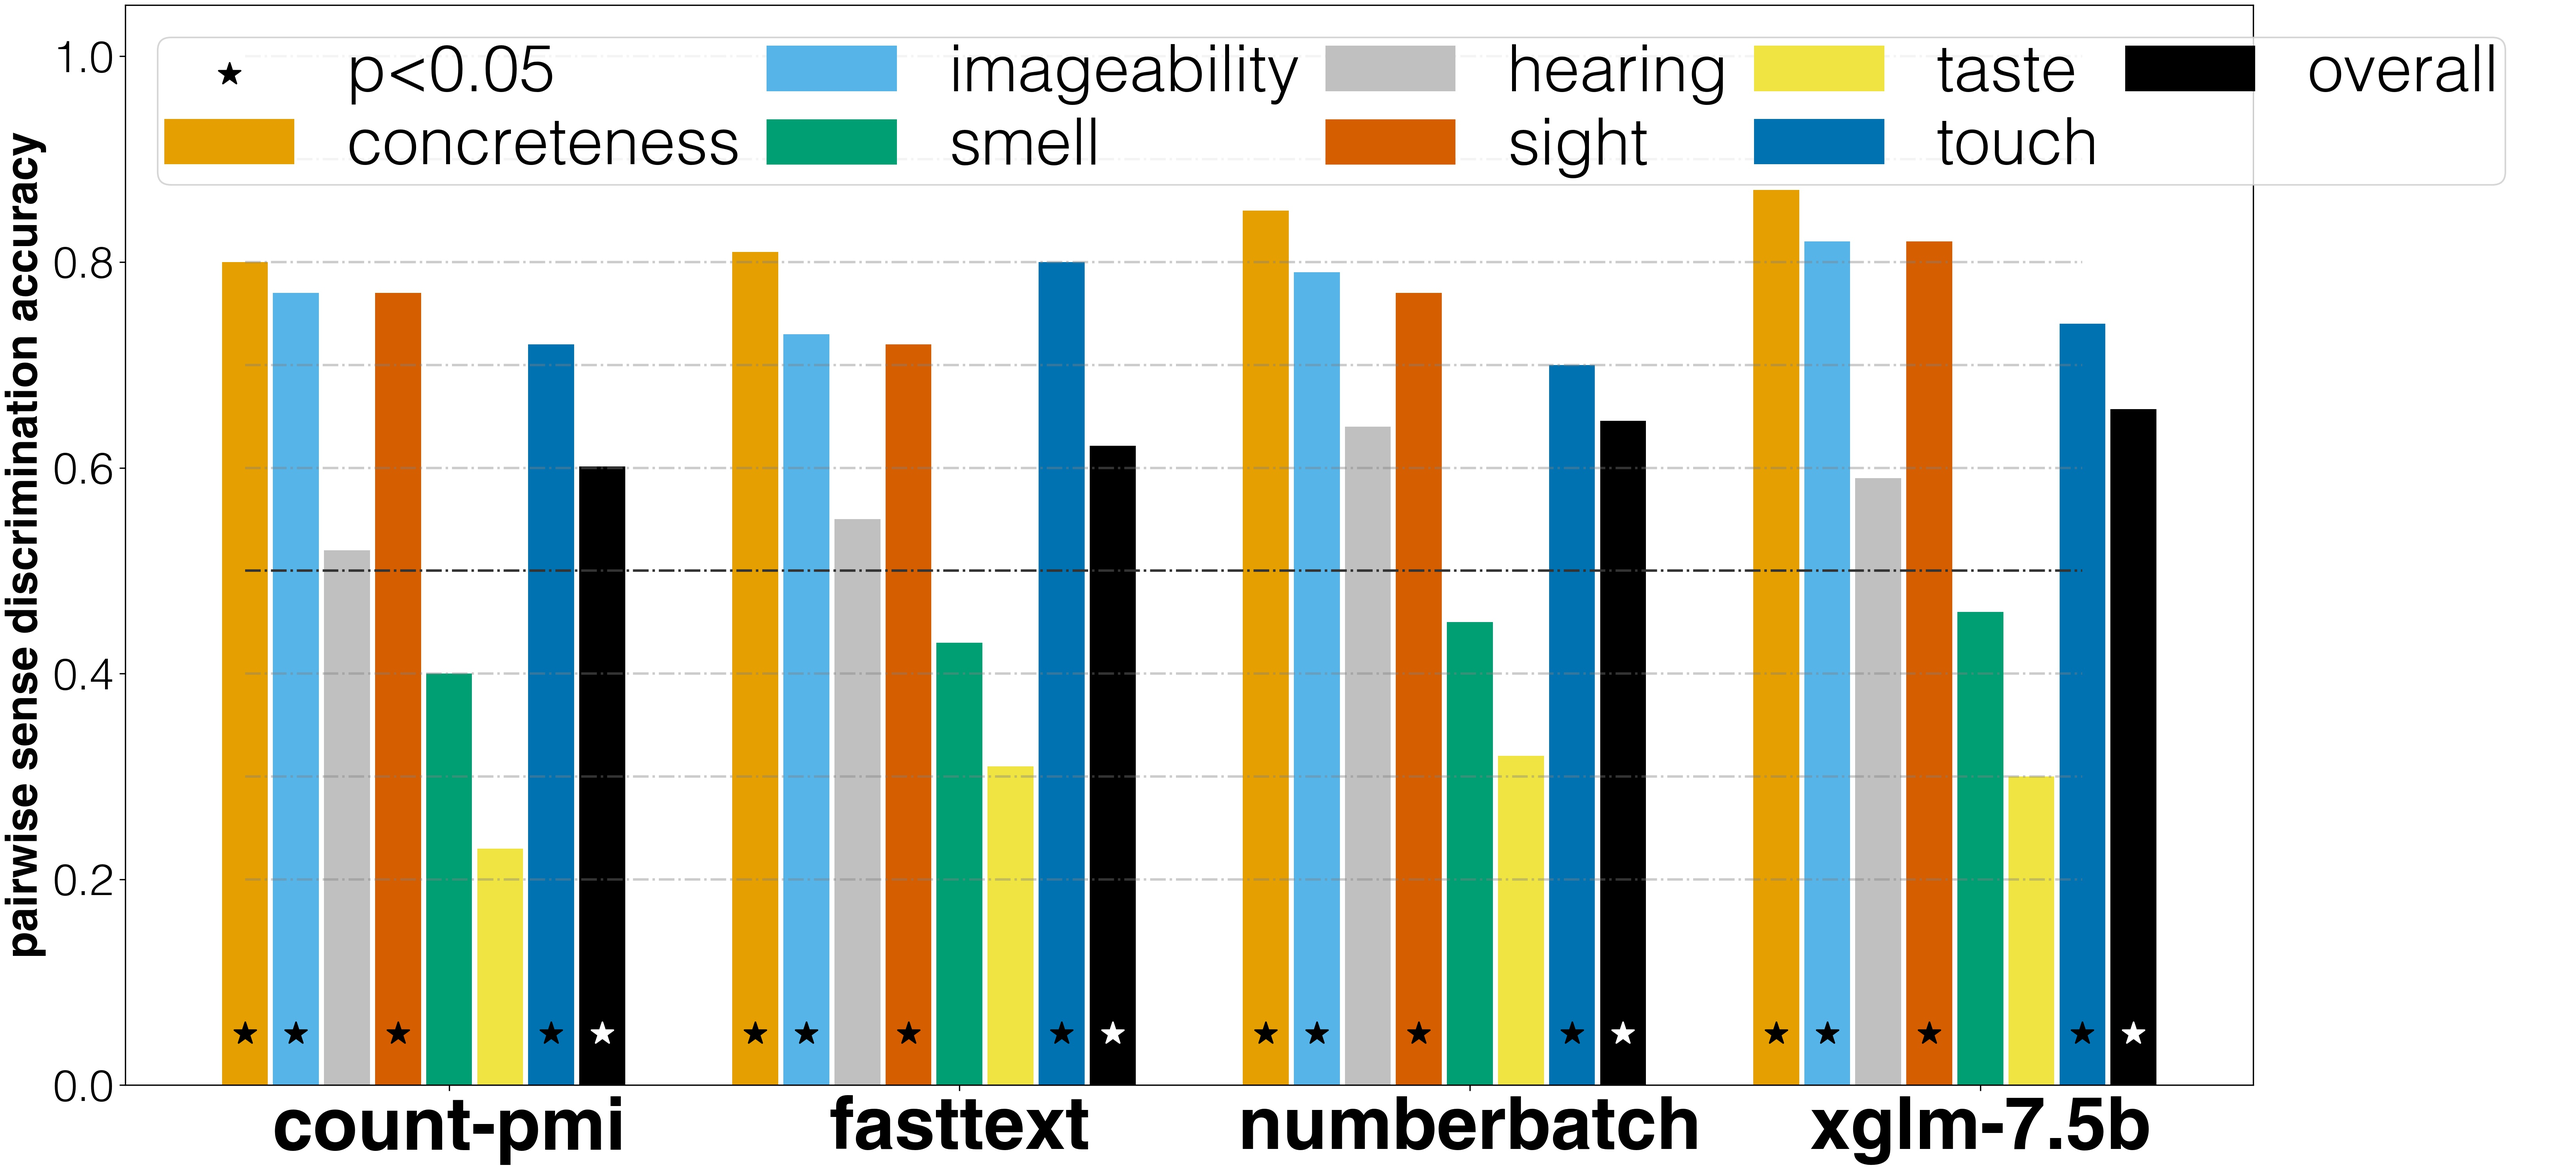
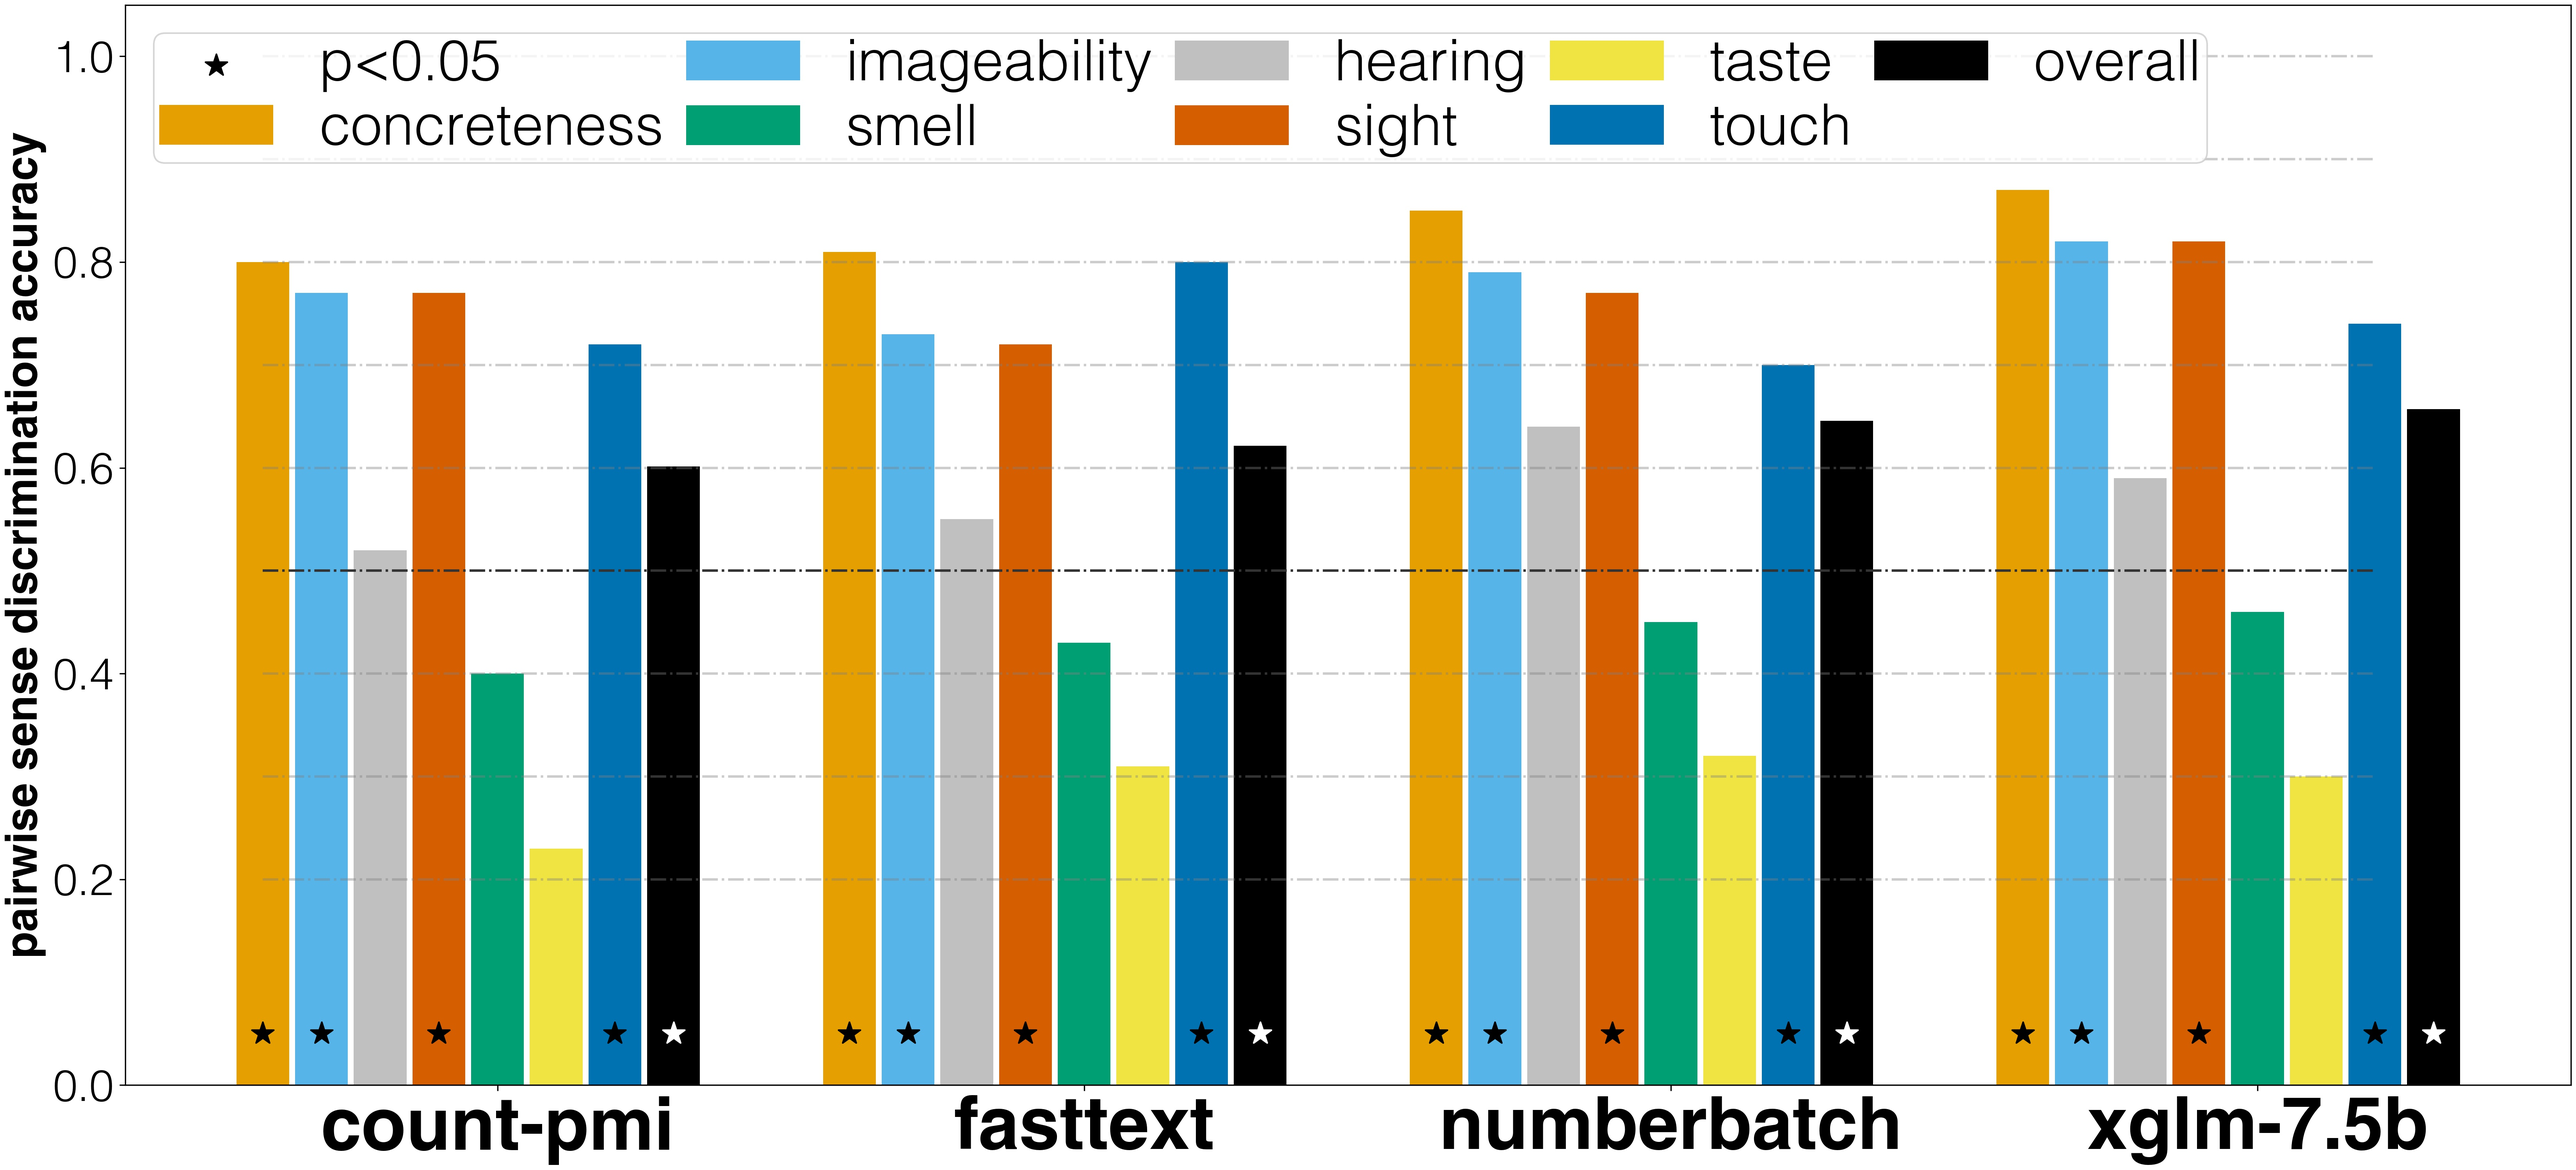
y

diff --git a/07_rsa_and_evaluation.py b/07_rsa_and_evaluation.py
@@ -526,7 +526,7 @@ ax.set_xticklabels(
                    )
 pyplot.yticks(fontsize=27)
 ax.legend(
-          fontsize=40, 
+          fontsize=35, 
           ncol=5, 
           loc=2, 
           #frameon=False, 
